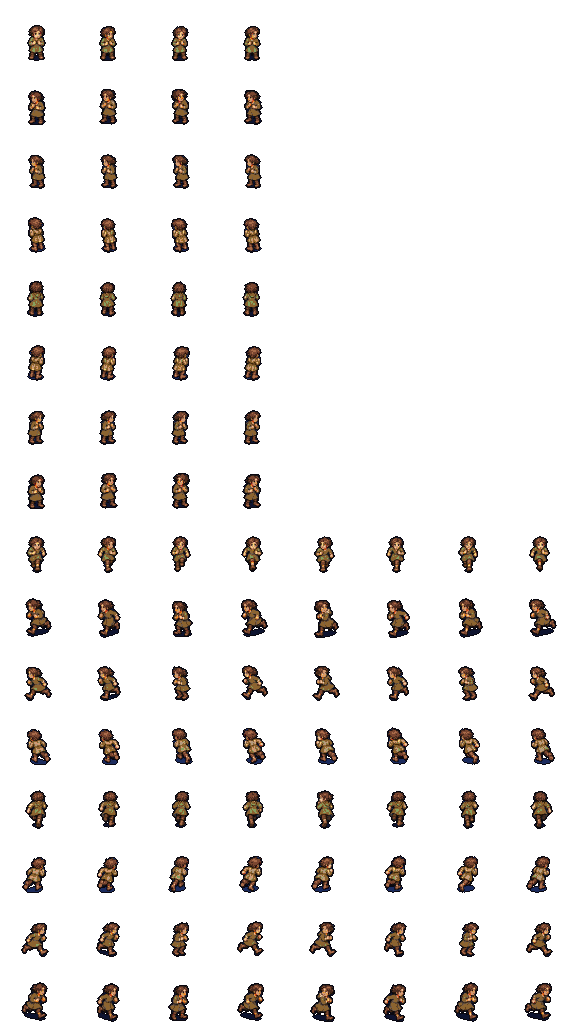
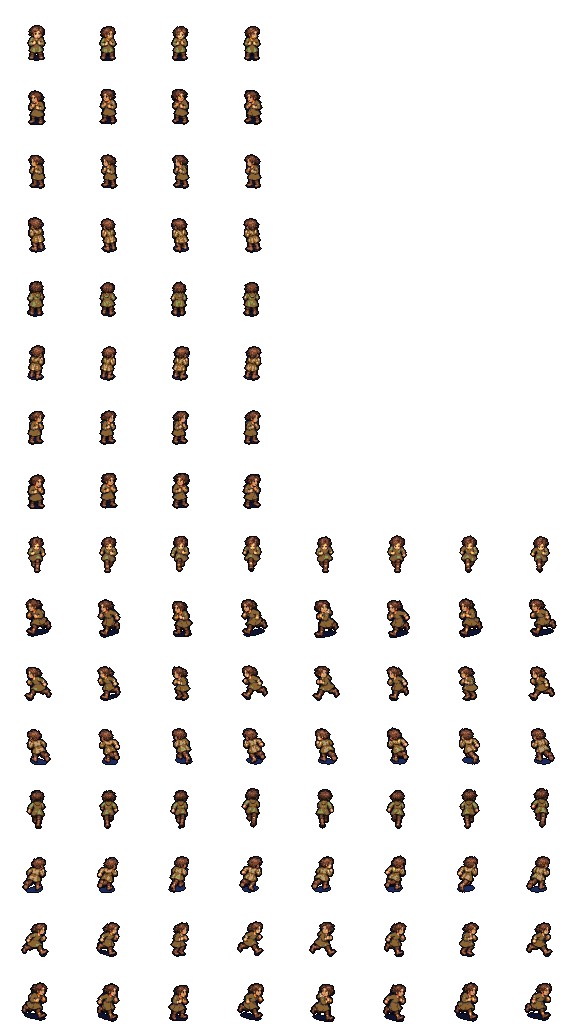
The townsfolk's S and N runs from the art desk's 10-27 repair strips (ART-52 RUN REVIEW); E keeps its profile run
tools/townsfolk-sheet.py: the nine Run 8 strips (S, E, N for the man, the woman and the child) cut; NEWRUN says which views take them -- S
and N for all three looks (they lean into the run; the old run's dark shadow blobs gone), E the 10-18 profile run for all three (the new E
strips turn toward SE, the art desk's own note). Never the old and the new run in one look. Each new strip scaled so its frames' median
height is the old run's (run_targets: the size stays, the gait changes); N woman's label, printed over her first figure, boxed by hand.
folkman_p1, folkwoman_p1, folkchild_p1: their S and N walk rows changed; the other fourteen rows of each byte for byte as a403fb9. On Griz's "filled fresh with harpies - probably a 'make the best of what it gave
you' situation" (10-27, to the lanes desk, which handed the run strips to this seat).

diff --git a/deep16/data/sprites.js b/deep16/data/sprites.js
@@ -4102,7 +4102,7 @@
 }
 },
 "folkchild_p1": {
-"image": "art/folkchild_p1.png?v=e4d0c2bc95",
+"image": "art/folkchild_p1.png?v=8fc1a91006",
 "fw": 72,
 "fh": 64,
 "ax": 36,
@@ -4128,10 +4128,10 @@
 "fps": 12
 }
 },
-"source": "drawn by the art desk (ART-09 FINAL SE and NE, 10-10; ART-52 REVIEW S, E and N, 10-18), cut by tools/townsfolk-sheet.py through tools/artdesk.py (10-27)"
+"source": "drawn by the art desk (ART-09 FINAL SE and NE, 10-10; ART-52 REVIEW S, E and N, 10-18; ART-52 RUN REVIEW S and N walks, 10-27), cut by tools/townsfolk-sheet.py through tools/artdesk.py (10-27)"
 },
 "folkman_p1": {
-"image": "art/folkman_p1.png?v=cfc54f95c0",
+"image": "art/folkman_p1.png?v=d056a0dd43",
 "fw": 72,
 "fh": 64,
 "ax": 36,
@@ -4157,10 +4157,10 @@
 "fps": 12
 }
 },
-"source": "drawn by the art desk (ART-09 FINAL SE and NE, 10-10; ART-52 REVIEW S, E and N, 10-18), cut by tools/townsfolk-sheet.py through tools/artdesk.py (10-27)"
+"source": "drawn by the art desk (ART-09 FINAL SE and NE, 10-10; ART-52 REVIEW S, E and N, 10-18; ART-52 RUN REVIEW S and N walks, 10-27), cut by tools/townsfolk-sheet.py through tools/artdesk.py (10-27)"
 },
 "folkwoman_p1": {
-"image": "art/folkwoman_p1.png?v=053e9f85a6",
+"image": "art/folkwoman_p1.png?v=67561787af",
 "fw": 72,
 "fh": 64,
 "ax": 36,
@@ -4186,7 +4186,7 @@
 "fps": 12
 }
 },
-"source": "drawn by the art desk (ART-09 FINAL SE and NE, 10-10; ART-52 REVIEW S, E and N, 10-18), cut by tools/townsfolk-sheet.py through tools/artdesk.py (10-27)"
+"source": "drawn by the art desk (ART-09 FINAL SE and NE, 10-10; ART-52 REVIEW S, E and N, 10-18; ART-52 RUN REVIEW S and N walks, 10-27), cut by tools/townsfolk-sheet.py through tools/artdesk.py (10-27)"
 },
 "gargoyle_p1": {
 "image": "art/gargoyle_p1.png?v=c6f71dd3c4",

diff --git a/deep16/index.html b/deep16/index.html
@@ -77,7 +77,7 @@
 <script src="js/art.js?v=e1ce4cf012"></script>
 <script src="data/cavern.js?v=647c1a184a"></script>
 <script src="data/maps.js?v=971b4fe9e6"></script>
-<script src="data/sprites.js?v=e08defe6a7"></script>
+<script src="data/sprites.js?v=69e56f0a67"></script>
 <script src="js/sprites.js?v=132505c283"></script>
 <script src="js/save.js?v=1191d6f29a"></script>
 <script src="data/spells.js?v=b819b6e987"></script>
@@ -161,7 +161,7 @@
 <script src="js/skyshow.js?v=7151daab7a"></script>
 <script src="js/barleyshow.js?v=186123cdd5"></script>
 <script src="js/rulesshow.js?v=ba52d8fe7d"></script>
-<script src="../js/eyes.js?v=96a52a8643"></script>
+<script src="../js/eyes.js?v=11cc0b57b6"></script>
 <script src="js/onegallery.js?v=175d0ae3bd"></script>
 <script src="js/main.js?v=60a9b89a13"></script>
 </body>

diff --git a/tools/townsfolk-sheet.py b/tools/townsfolk-sheet.py
@@ -9,7 +9,9 @@ _src/townsfolk/ itself) HEAD 1 SE and HEAD 2 NE; ART-52 REVIEW (10-18, in _src/t
 two pages: PAGE 1 the man and the woman (Idle 4, Run 8 each), PAGE 2 the child (Idle 4, Run 8). Idle -> idle, Run -> walk; each one a look
 of its own (the art desk's note: "Each character is a separate look"). Facings: the five views as drawn, SW, W and NW the mirrors.
 The run cycles' gait is the art desk's own OPEN (ART-09 and ART-52: "Opposite-half-stride exchange is not convincingly established"): cut as
-drawn, his eye on them.
+drawn, his eye on them. ART-52 RUN REVIEW (10-27, in _src/townsfolk/ART-52/, on his "spin up a cutter for the leftovers in fresh"): a
+repair of the S, E and N Run 8, one look a strip (PAGE 3 the man, 4 the woman, 5 the child); "cutter/Griz must choose before replacing", so
+NEWRUN says which views take it (S and N), each strip scaled so its frames' median height is the old run's (`run_targets`).
 The boxes by the seat's probe (each page's bodies clustered into its rows, each frame's x its body's middle, each row's strip its white
 numbers under it; the row names boxed as text); the mask by channel (`chan` 16: the blue skirt and trousers on the navy).
 Cut, scaled and placed by tools/artdesk.py. Their size (the seat's call): the man 50 from every side (the heroes stand 49 to 54, the
@@ -58,20 +60,73 @@ SPEC = {
            R(('childidle', (0, 0, 1536, 473), (443, 473), 4, [287, 448, 612, 782]), ('childwalk', (0, 474, 1536, 746), (717, 746), 8, [289, 449, 611, 767, 937, 1099, 1262, 1431]))),
   'H5P2': (dict(file='ART-52_HEAD-5_PAGE-2.png', W=1536, text=[(31, 607, 56, 640), (32, 323, 79, 356), (50, 607, 89, 640), (73, 330, 91, 356), (73, 607, 124, 639), (86, 323, 124, 356), (129, 607, 157, 640), (131, 323, 173, 358), (150, 615, 177, 640), (167, 323, 204, 356), (172, 614, 197, 640)]),
            R(('childidle', (0, 0, 1536, 475), (446, 475), 4, [293, 448, 608, 774]), ('childwalk', (0, 476, 1536, 762), (734, 762), 8, [292, 455, 614, 776, 937, 1096, 1264, 1434]))),
+  # the art desk's run strips of 10-27 (ART-52 RUN REVIEW): one look's Run 8 a page, PAGE 3 the man, 4 the woman, 5 the child
+  'H3P3': (dict(file='ART-52_HEAD-3_PAGE-3_Man-Run8_REVIEW.png', W=2172, text=[(23, 320, 219, 362)]),
+           R(('manrun', (0, 0, 2172, 560), (523, 560), 8, [350, 575, 812, 1048, 1275, 1514, 1753, 1990]))),
+  'H3P4': (dict(file='ART-52_HEAD-3_PAGE-4_Woman-Run8_REVIEW.png', W=1881, text=[]),
+           R(('womanrun', (0, 0, 1881, 723), (615, 723), 8, [143, 378, 606, 836, 1063, 1291, 1516, 1746]))),
+  'H3P5': (dict(file='ART-52_HEAD-3_PAGE-5_Child-Run8_REVIEW.png', W=2172, text=[(22, 355, 253, 396)]),
+           R(('childrun', (0, 0, 2172, 562), (525, 562), 8, [369, 602, 830, 1065, 1304, 1538, 1777, 2020]))),
+  'H4P3': (dict(file='ART-52_HEAD-4_PAGE-3_Man-Run8_REVIEW.png', W=2172, text=[(26, 331, 216, 371)]),
+           R(('manrun', (0, 0, 2172, 548), (510, 548), 8, [348, 571, 798, 1055, 1306, 1546, 1782, 2038]))),
+  'H4P4': (dict(file='ART-52_HEAD-4_PAGE-4_Woman-Run8_REVIEW.png', W=2172, text=[(15, 357, 248, 396)]),
+           R(('womanrun', (0, 0, 2172, 584), (549, 584), 8, [362, 602, 828, 1073, 1320, 1557, 1787, 2033]))),
+  'H4P5': (dict(file='ART-52_HEAD-4_PAGE-5_Child-Run8_REVIEW.png', W=2172, text=[(15, 345, 240, 385)]),
+           R(('childrun', (0, 0, 2172, 564), (527, 564), 8, [350, 586, 814, 1061, 1317, 1552, 1781, 2028]))),
+  'H5P3': (dict(file='ART-52_HEAD-5_PAGE-3_Man-Run8_REVIEW.png', W=2172, text=[(30, 321, 238, 363)]),
+           R(('manrun', (0, 0, 2172, 563), (526, 563), 8, [366, 595, 825, 1059, 1315, 1546, 1775, 2009]))),
+  'H5P4': (dict(file='ART-52_HEAD-5_PAGE-4_Woman-Run8_REVIEW.png', W=1774, text=[(40, 230, 290, 290)]),     # (its label printed over the first figure: boxed by hand)
+           R(('womanrun', (0, 0, 1774, 694), (660, 694), 8, [145, 368, 584, 800, 1022, 1236, 1443, 1646]))),
+  'H5P5': (dict(file='ART-52_HEAD-5_PAGE-5_Child-Run8_REVIEW.png', W=1536, text=[(22, 480, 187, 512)]),
+           R(('childrun', (0, 0, 1536, 650), (622, 650), 8, [276, 442, 601, 763, 931, 1094, 1261, 1426]))),
 }
 VIEW_HEAD = {'SE': 1, 'NE': 2, 'S': 3, 'E': 4, 'N': 5}
 ROWS = ['idle', 'walk']
 FPS = {'idle': 5, 'walk': 12}
 
 
-def pages(who, page):
-    """one look's pages: each view's page with that look's two rows, renamed idle and walk"""
+RUNS = {'man': 3, 'woman': 4, 'child': 5}      # (each look's run strip, its page on HEADs 3 to 5)
+NEWRUN = {(w, v) for w in RUNS for v in ('S', 'N')}   # the views whose walk is the new strip's (never the old and the new in one look): S and N
+# for all three (they lean into the run, the old shadow blobs gone); E keeps the 10-18 profile run for all three -- the new E strips turn
+# toward SE (the art desk's own note on the man and the child, "a slight SE component" on the woman), the seat's call, his eye on it
+
+
+def pages(who, page, new=True):
+    """one look's pages: each view's page with that look's two rows, renamed idle and walk; where the view takes the 10-27 strip, its walk
+    from that page instead (the old page's walk row left out)"""
     out = {}
     for v, h in VIEW_HEAD.items():
         L = 'H%dP%d' % (h, page)
         p, (rows, xs) = SPEC[L]
         rows = [(r[len(who):], b, s, n) for r, b, s, n in rows if r.startswith(who)]
         out[L] = dict(p, rows=rows, xs={r[len(who):]: x for r, x in xs.items() if r.startswith(who)}, dir='' if h < 3 else 'ART-52')
+        if new and (who, v) in NEWRUN:
+            R_ = 'H%dP%d' % (h, RUNS[who])
+            q, (rr, xx) = SPEC[R_]
+            out[R_] = dict(q, rows=[('walk', b, s, n) for r, b, s, n in rr], xs={'walk': xx[who + 'run']}, dir='ART-52')
+            out[L]['rows'] = [r for r in out[L]['rows'] if r[0] != 'walk']
+    return out
+
+
+def run_targets(who, page, stand):
+    """a run strip scaled so its frames' median height is the old run's (the page's own run row at that page's scale): the size stays
+    as it was, only the gait changes -> artdesk's targets {L: ('walk', 0, its first frame's height)}"""
+    old = pages(who, page, new=False)
+    cuts = AD.cut(ROOT, 'townsfolk', 'ART-52', old, chan=CHAN)
+    K = AD.scales(cuts, {v: ('H%dP%d' % (h, page),) for v, h in VIEW_HEAD.items()}, stand, fit)
+    new = {L: p for L, p in pages(who, page).items() if L not in old}
+    rc = AD.cut(ROOT, 'townsfolk', 'ART-52', new, chan=CHAN)
+    out = {}
+    for L in new:
+        Lo = 'H%sP%d' % (L[1], page)
+        want = float(np.median([AD.tall(fit(im, K[Lo])) for im, _, _ in cuts[Lo]['walk']]))
+        ims = [im for im, _, _ in rc[L]['walk']]
+        lo, hi = 1.0, 20.0
+        for _ in range(26):
+            k = (lo + hi) / 2
+            lo, hi = (k, hi) if float(np.median([AD.tall(fit(im, k)) for im in ims])) > want else (lo, k)
+        out[L] = ('walk', 0, AD.tall(fit(ims[0], (lo + hi) / 2)))
+        print('  %s %s: the new run at %.2f page px a game px, its median %.0f tall as the old' % (who, L, (lo + hi) / 2, want))
     return out
 
 
@@ -100,12 +155,13 @@ def mirror(seq):
 
 def build(who, page, height):
     P = pages(who, page)
-    views = {v: ('H%dP%d' % (h, page),) for v, h in VIEW_HEAD.items()}
+    views = {v: ('H%dP%d' % (h, page),) + ((('H%dP%d' % (h, RUNS[who])),) if (who, v) in NEWRUN else ()) for v, h in VIEW_HEAD.items()}
     stand = {'side': height, 'S': height, 'N': height}
     cell = (FW, FH, AX, AY)
-    first = AD.views(ROOT, 'townsfolk', 'ART-52', P, views, stand, fit, torso_x, cell, chan=CHAN)
+    tg = run_targets(who, page, stand)
+    first = AD.views(ROOT, 'townsfolk', 'ART-52', P, views, stand, fit, torso_x, cell, chan=CHAN, targets=tg)
     ref = {'side': first['E']['idle'][0], 'S': first['S']['idle'][0], 'N': first['N']['idle'][0]}
-    d = AD.views(ROOT, 'townsfolk', 'ART-52', P, views, stand, fit, torso_x, cell, chan=CHAN, tone_ref=ref)
+    d = AD.views(ROOT, 'townsfolk', 'ART-52', P, views, stand, fit, torso_x, cell, chan=CHAN, tone_ref=ref, targets=tg)
     frames = {}
     for an in ROWS:
         frames[an] = [d['S'][an], mirror(d['SE'][an]), mirror(d['E'][an]), mirror(d['NE'][an]), d['N'][an], d['NE'][an], d['E'][an], d['SE'][an]]
@@ -122,6 +178,6 @@ if __name__ == '__main__':
         meta = json.load(open(mp))
         for an, fps in FPS.items():
             meta['anims'][an]['fps'] = fps
-        meta['source'] = 'drawn by the art desk (ART-09 FINAL SE and NE, 10-10; ART-52 REVIEW S, E and N, 10-18), cut by tools/townsfolk-sheet.py through tools/artdesk.py (10-27)'
+        meta['source'] = 'drawn by the art desk (ART-09 FINAL SE and NE, 10-10; ART-52 REVIEW S, E and N, 10-18; ART-52 RUN REVIEW S and N walks, 10-27), cut by tools/townsfolk-sheet.py through tools/artdesk.py (10-27)'
         json.dump(meta, open(mp, 'w'), indent=1)
         print('  %s: %s' % (name, ', '.join('%s %d' % (an, len(frames[an][0])) for an in ROWS)))
